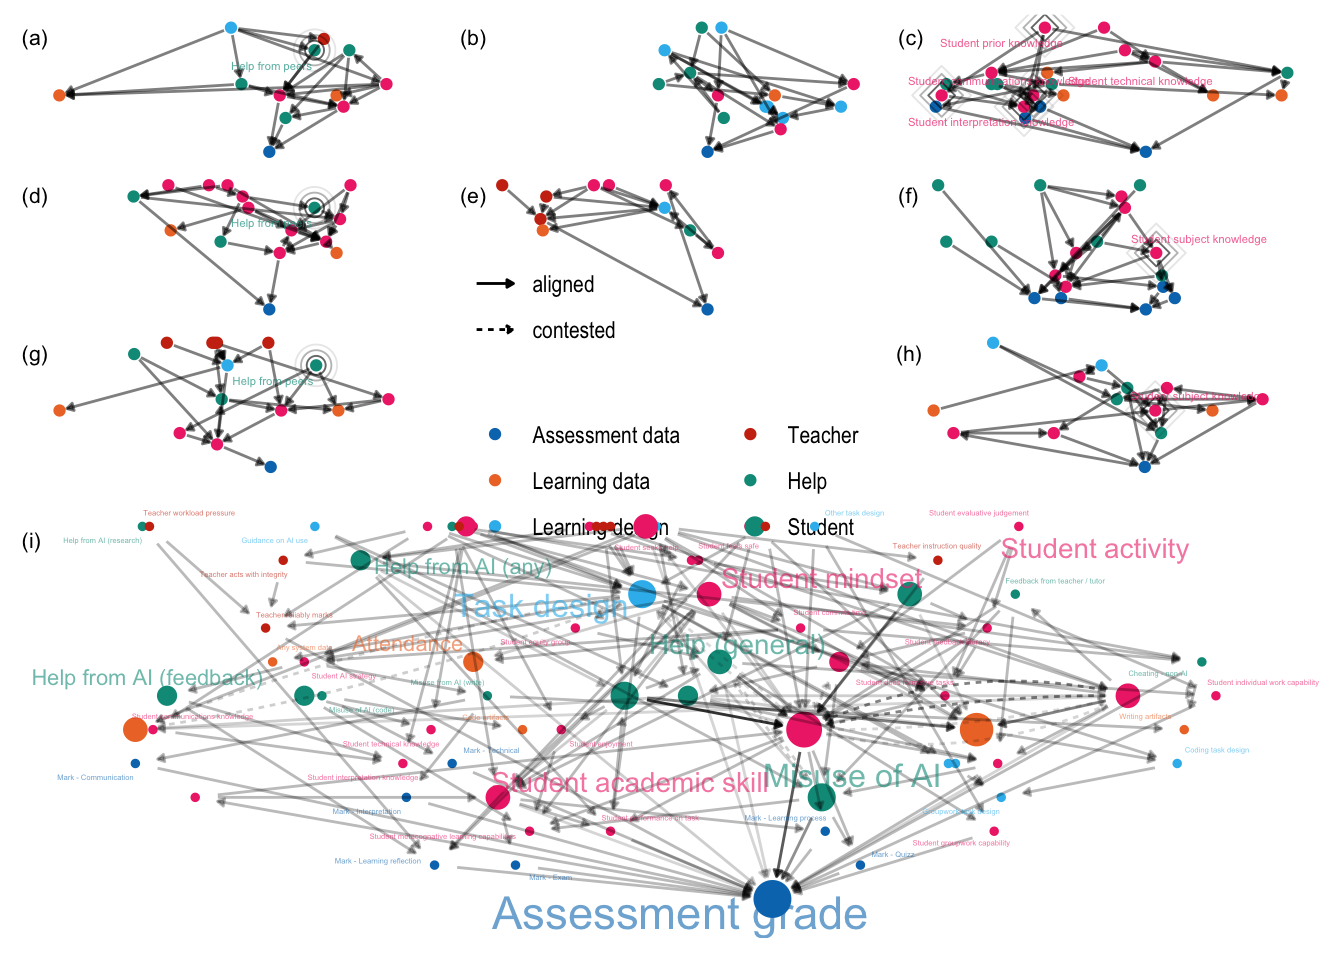
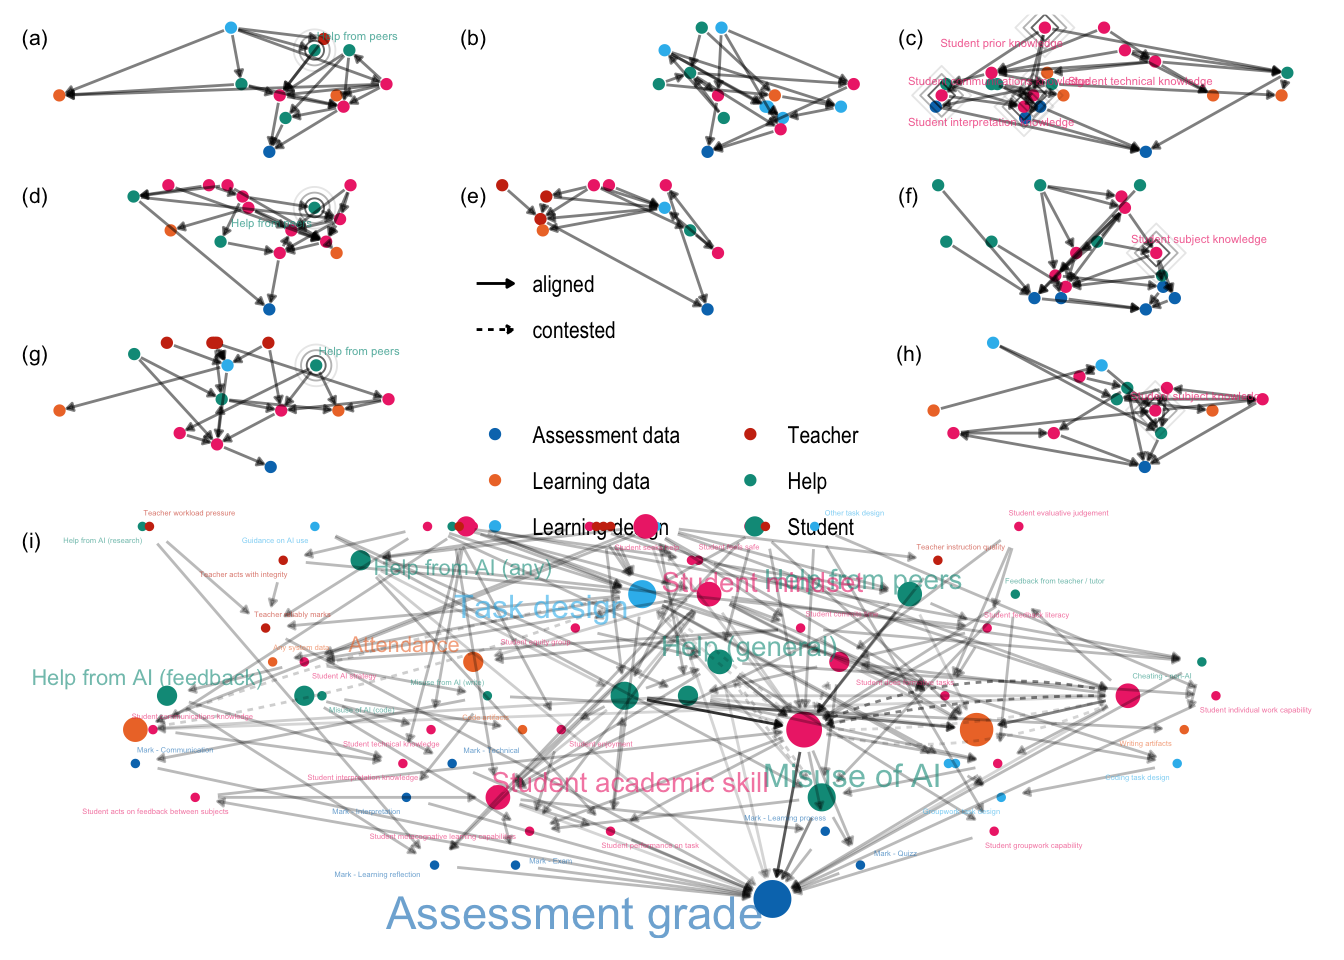
fixed label position error

diff --git a/elicited-DAG-analysis.html b/elicited-DAG-analysis.html
@@ -1527,7 +1527,7 @@ window.Quarto = {
 <span id="cb27-75"><a href="#cb27-75" aria-hidden="true" tabindex="-1"></a>        <span class="fu">plot_fine_graph_from_layout</span>(<span class="at">weight_nodes =</span> weight_nodes)</span>
 <span id="cb27-76"><a href="#cb27-76" aria-hidden="true" tabindex="-1"></a>}</span>
 <span id="cb27-77"><a href="#cb27-77" aria-hidden="true" tabindex="-1"></a></span>
-<span id="cb27-78"><a href="#cb27-78" aria-hidden="true" tabindex="-1"></a>pMergedFineLegend <span class="ot">&lt;-</span> merged_all_graph <span class="sc">|&gt;</span> </span>
+<span id="cb27-78"><a href="#cb27-78" aria-hidden="true" tabindex="-1"></a>pMergedFineLegend <span class="ot">&lt;-</span> merged_all_graph_layout_adjusted <span class="sc">|&gt;</span> </span>
 <span id="cb27-79"><a href="#cb27-79" aria-hidden="true" tabindex="-1"></a>    <span class="fu">g_plot_fine</span>() <span class="sc">+</span> </span>
 <span id="cb27-80"><a href="#cb27-80" aria-hidden="true" tabindex="-1"></a>    <span class="fu">theme</span>(<span class="at">legend.position =</span> <span class="st">"bottom"</span>) <span class="sc">+</span></span>
 <span id="cb27-81"><a href="#cb27-81" aria-hidden="true" tabindex="-1"></a>    <span class="fu">guides</span>(<span class="at">size =</span> <span class="st">"none"</span>, <span class="at">edge_width =</span> <span class="st">"none"</span>, <span class="at">alpha =</span> <span class="st">"none"</span>, <span class="at">edge_alpha =</span> <span class="st">"none"</span>,</span>
@@ -1544,7 +1544,7 @@ window.Quarto = {
 </div>
 <details class="code-fold">
 <summary>Code</summary>
-<div class="sourceCode cell-code" id="cb28"><pre class="sourceCode r code-with-copy"><code class="sourceCode r"><span id="cb28-1"><a href="#cb28-1" aria-hidden="true" tabindex="-1"></a>pMergedFineLegendTall <span class="ot">&lt;-</span> merged_all_graph <span class="sc">|&gt;</span> </span>
+<div class="sourceCode cell-code" id="cb28"><pre class="sourceCode r code-with-copy"><code class="sourceCode r"><span id="cb28-1"><a href="#cb28-1" aria-hidden="true" tabindex="-1"></a>pMergedFineLegendTall <span class="ot">&lt;-</span> merged_all_graph_layout_adjusted <span class="sc">|&gt;</span> </span>
 <span id="cb28-2"><a href="#cb28-2" aria-hidden="true" tabindex="-1"></a>    <span class="fu">g_plot_fine</span>() <span class="sc">+</span> </span>
 <span id="cb28-3"><a href="#cb28-3" aria-hidden="true" tabindex="-1"></a>    <span class="fu">theme</span>(<span class="at">legend.position =</span> <span class="st">"right"</span>) <span class="sc">+</span></span>
 <span id="cb28-4"><a href="#cb28-4" aria-hidden="true" tabindex="-1"></a>    <span class="fu">guides</span>(<span class="at">size =</span> <span class="st">"none"</span>, <span class="at">alpha =</span> <span class="st">"none"</span>, <span class="at">edge_alpha =</span> <span class="st">"none"</span>, <span class="at">edge_width =</span> <span class="st">"none"</span>,</span>
@@ -1556,7 +1556,7 @@ window.Quarto = {
 <span id="cb28-10"><a href="#cb28-10" aria-hidden="true" tabindex="-1"></a>pMergedFineLabelled <span class="ot">&lt;-</span> pMergedFine <span class="sc">+</span> </span>
 <span id="cb28-11"><a href="#cb28-11" aria-hidden="true" tabindex="-1"></a>    <span class="fu">geom_node_text</span>(</span>
 <span id="cb28-12"><a href="#cb28-12" aria-hidden="true" tabindex="-1"></a>        <span class="fu">aes</span>(<span class="at">label =</span> nice_name, <span class="at">size =</span> node_w, <span class="at">colour =</span> node_type), <span class="at">alpha =</span> <span class="fl">0.6</span>, </span>
-<span id="cb28-13"><a href="#cb28-13" aria-hidden="true" tabindex="-1"></a>        <span class="at">data =</span> merged_all_graph_layout <span class="sc">|&gt;</span>  <span class="fu">filter</span>(node_w <span class="sc">&gt;</span> <span class="dv">0</span>), <span class="at">repel =</span> <span class="cn">TRUE</span>, <span class="at">max.overlaps =</span> <span class="dv">4</span>) <span class="sc">+</span></span>
+<span id="cb28-13"><a href="#cb28-13" aria-hidden="true" tabindex="-1"></a>        <span class="at">data =</span> merged_all_graph_layout_adjusted <span class="sc">|&gt;</span>  <span class="fu">filter</span>(node_w <span class="sc">&gt;</span> <span class="dv">0</span>), <span class="at">repel =</span> <span class="cn">TRUE</span>, <span class="at">max.overlaps =</span> <span class="dv">4</span>) <span class="sc">+</span></span>
 <span id="cb28-14"><a href="#cb28-14" aria-hidden="true" tabindex="-1"></a>    ggnewscale<span class="sc">::</span><span class="fu">new_scale</span>(<span class="st">"size"</span>) <span class="sc">+</span></span>
 <span id="cb28-15"><a href="#cb28-15" aria-hidden="true" tabindex="-1"></a>    <span class="fu">scale_size</span>(<span class="at">range =</span> <span class="fu">c</span>(<span class="dv">3</span>,<span class="dv">6</span>), <span class="at">name =</span> <span class="st">"text-size"</span>)</span>
 <span id="cb28-16"><a href="#cb28-16" aria-hidden="true" tabindex="-1"></a>pMergedFineLabelled</span></code><button title="Copy to Clipboard" class="code-copy-button"><i class="bi"></i></button></pre></div>
